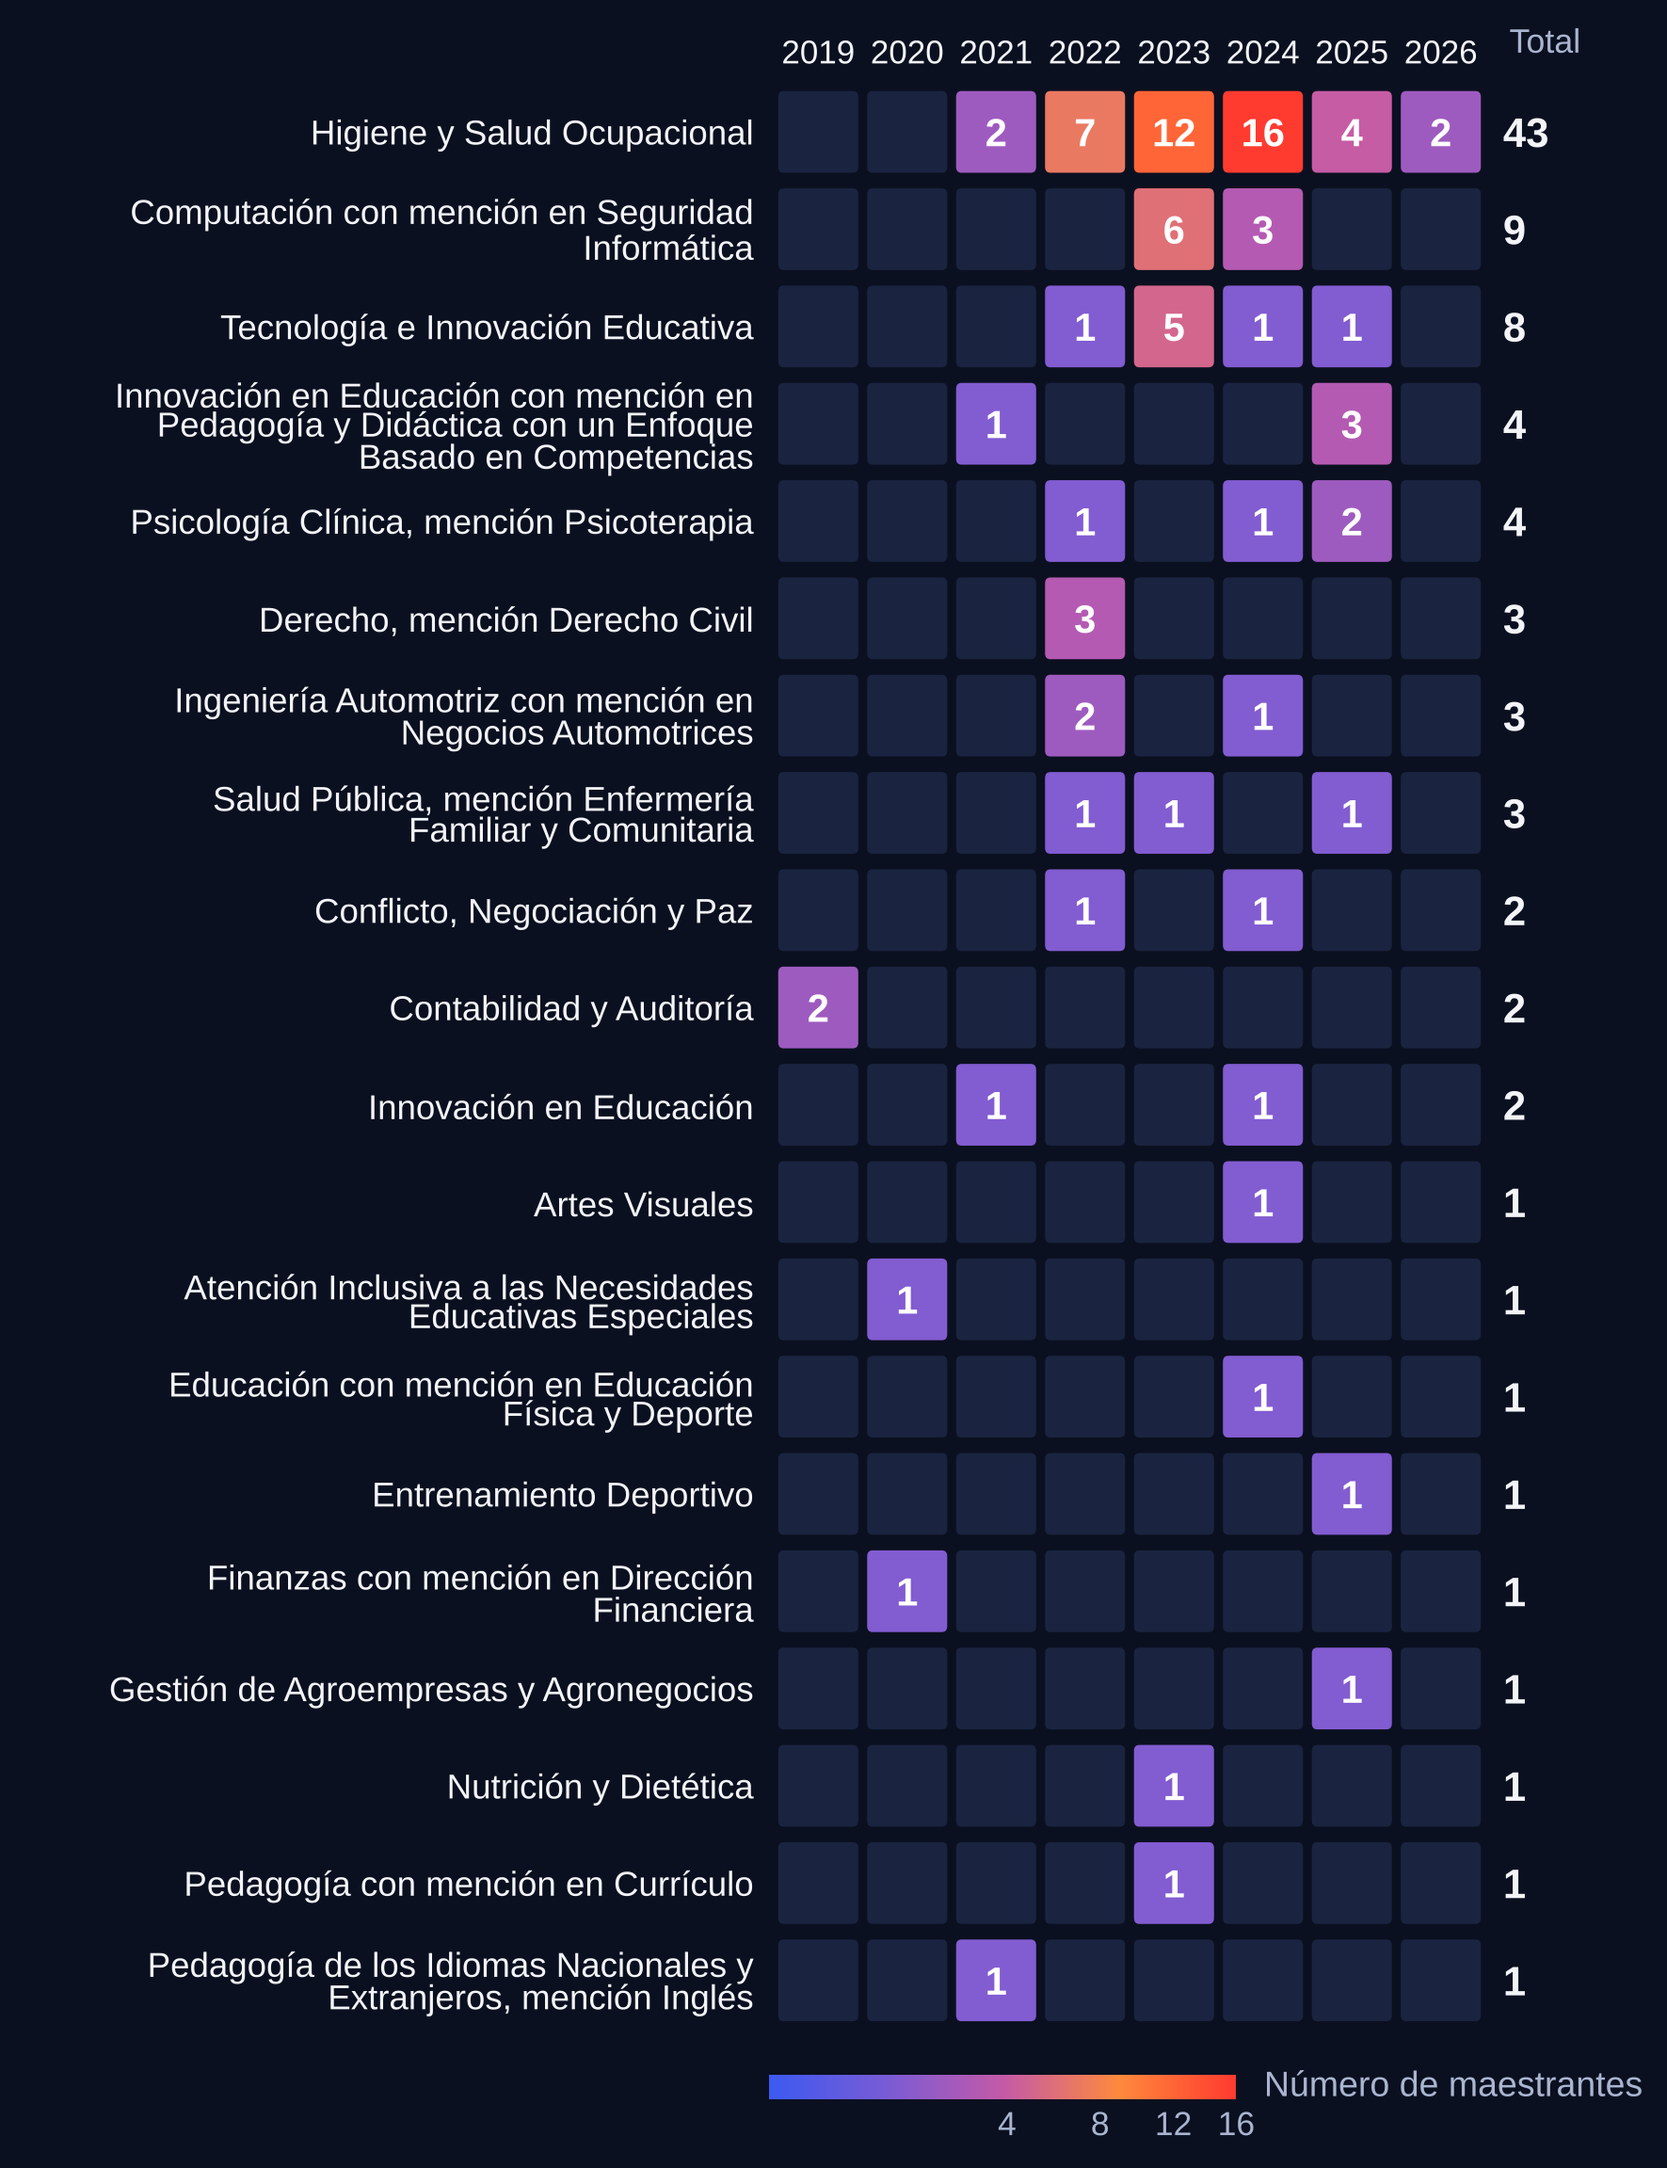
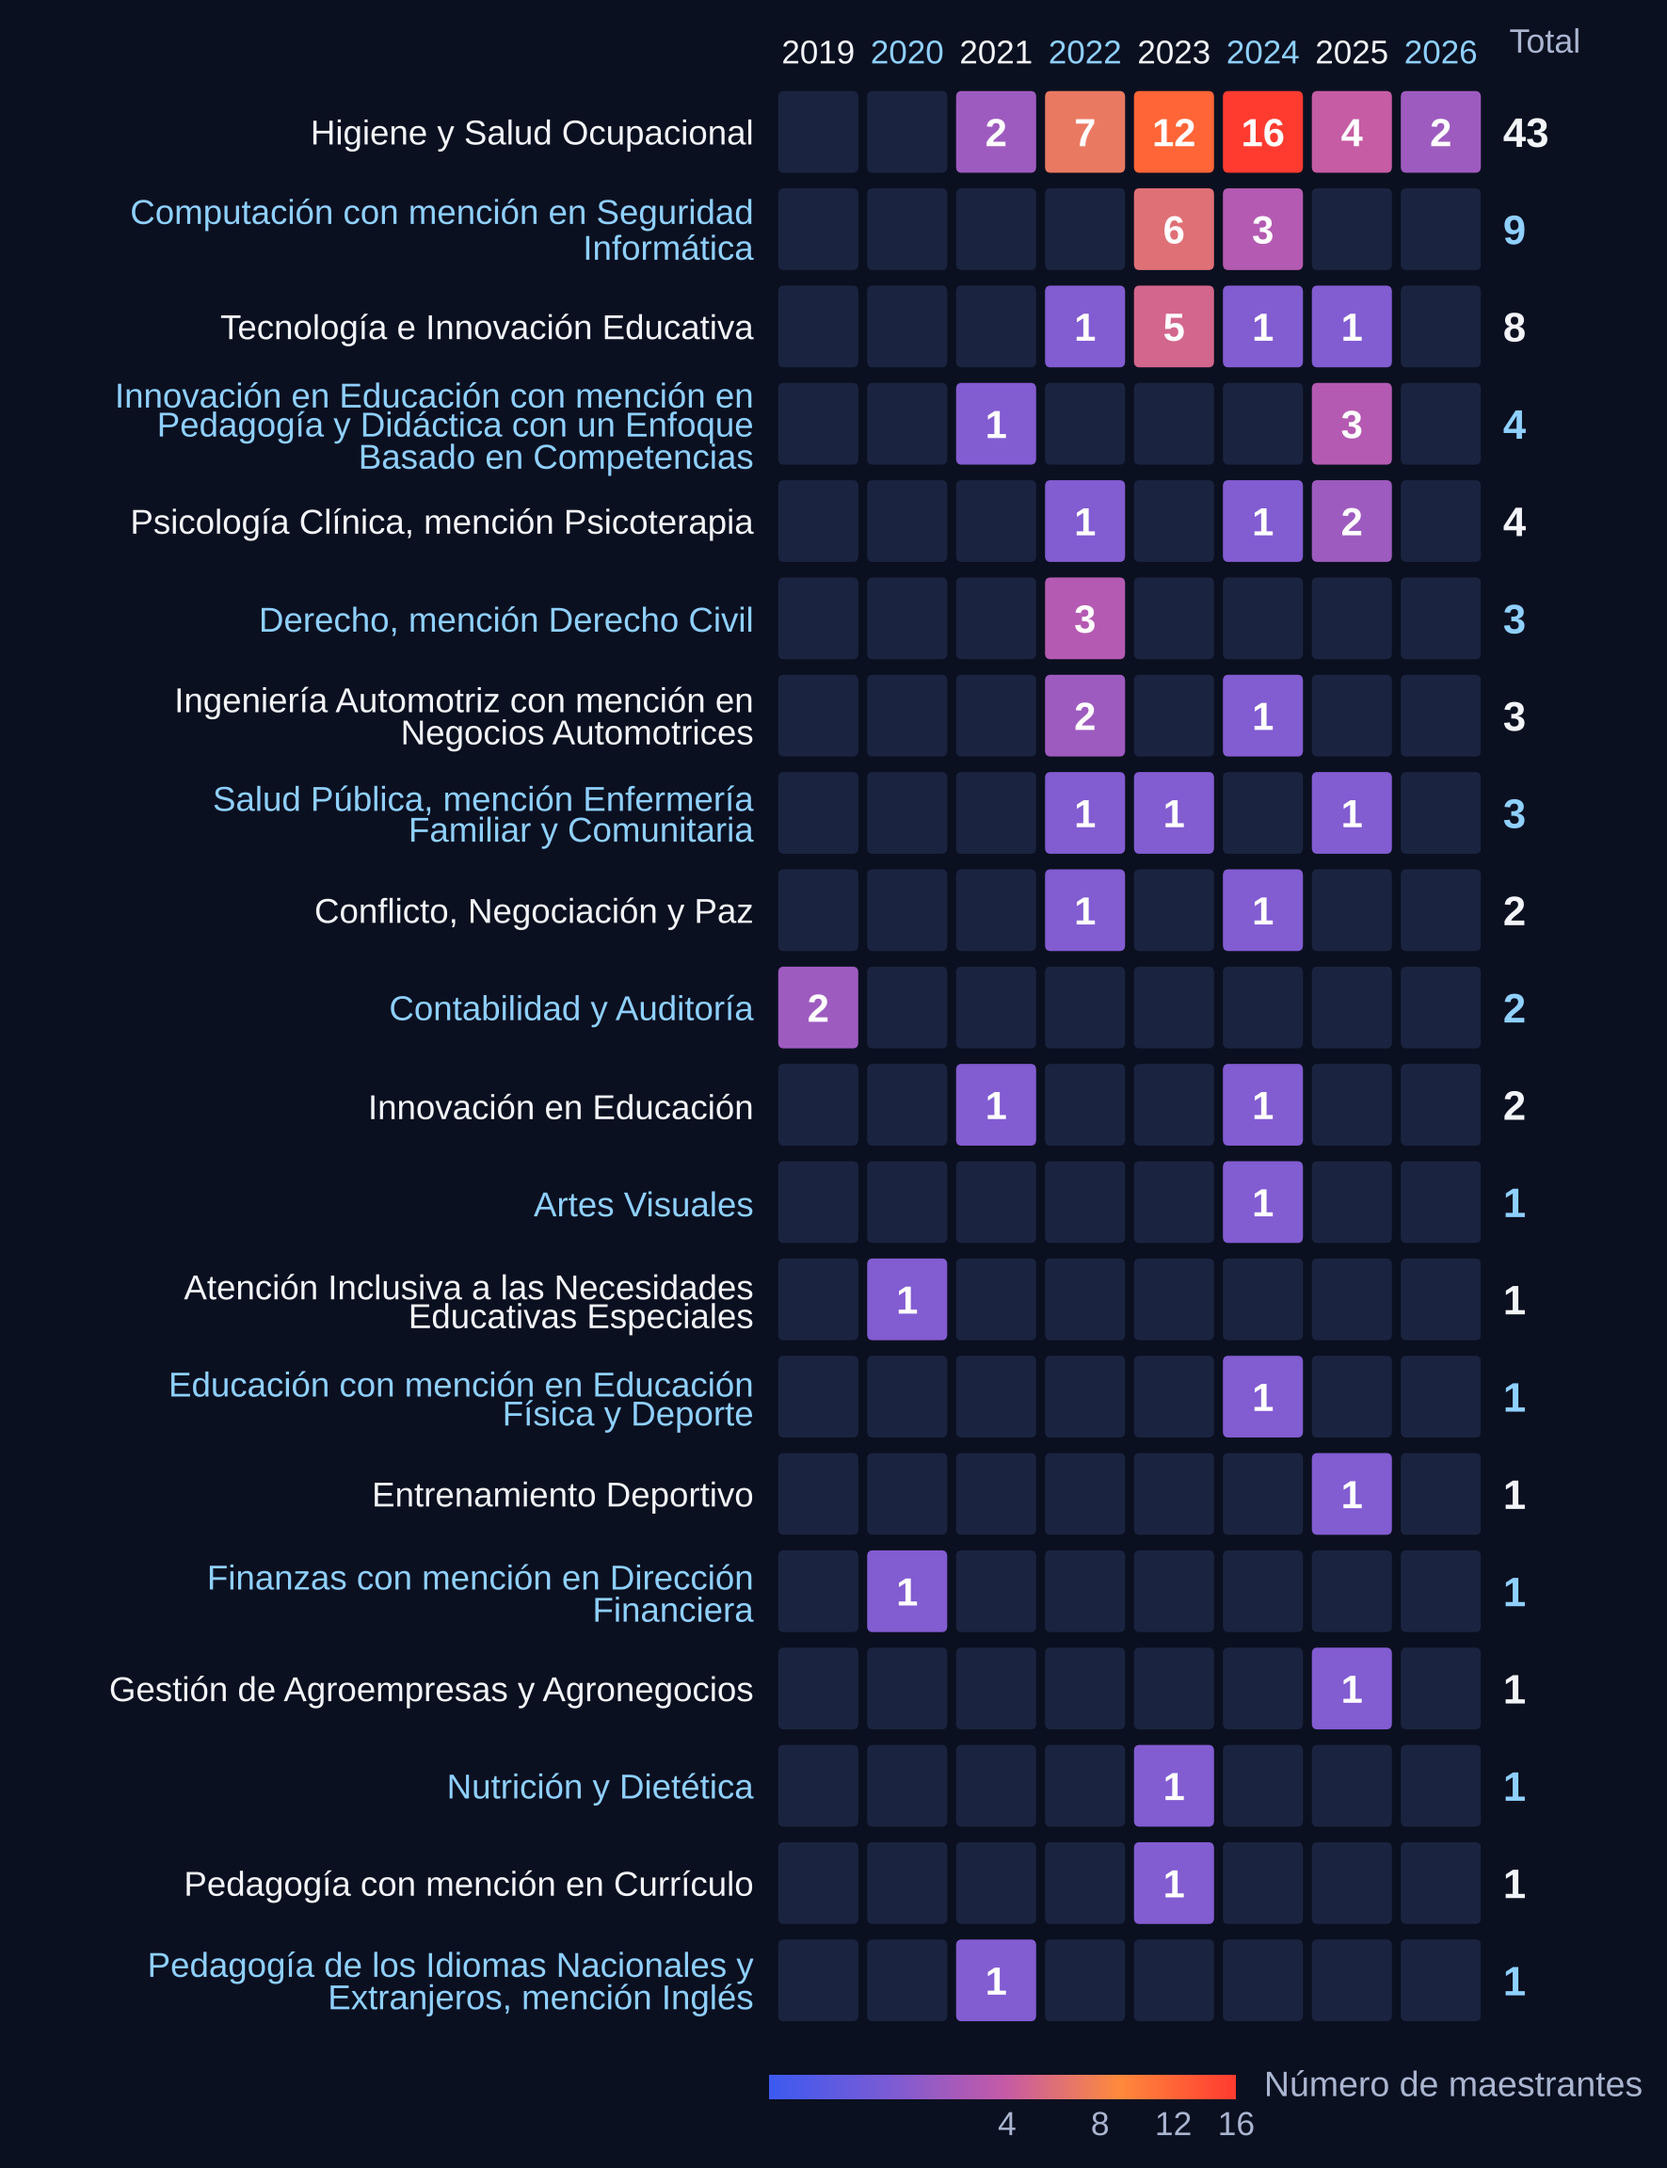
Mapa de calor: nombres, totales y anios alternan entre blanco y celeste
Facilita seguir cada fila y cada columna con la vista. El cambio esta en
graficos_base.py (mapa_calor) y se refleja en resultados/07_programa_por_anio.png.

Claude-Session: https://claude.ai/code/session_01WjPbRQ9X7xbYA5kuQJDoXy

diff --git a/graficos_base.py b/graficos_base.py
@@ -42,6 +42,7 @@ from matplotlib.patches import Patch, FancyBboxPatch
 # ------------------------------------------------------------------------------------------------ estilo
 # Para cambiar la apariencia de TODOS los gráficos se cambian solo estas líneas.
 FONDO, PANEL, REJA, TXT, SUB = "#0b1020", "#121a30", "#2a3759", "#f2f4f8", "#aab5d0"
+TXT2 = "#8fd0ff"                   # celeste: segundo color de texto, para alternar filas y columnas en el mapa de calor
 RAMPA = LinearSegmentedColormap.from_list("base", ["#3d5af1", "#7a5cd6", "#c45aa8", "#ff8a3d", "#ff3b30"])   # degradado principal
 RAMPA_A = LinearSegmentedColormap.from_list("a", ["#c45aa8", "#ff8a3d", "#ffb347"])                          # serie izquierda de la pirámide
 RAMPA_B = LinearSegmentedColormap.from_list("b", ["#7a5cd6", "#3d5af1", "#39a0f2"])                          # serie derecha de la pirámide
@@ -342,7 +343,8 @@ def cajas(grupos, ruta, eje="Valor", unidad="", tope=None, mediana_general=True,
 
 def mapa_calor(filas, columnas, matriz, ruta, eje="Cantidad", total=True, alto=None, titulo=None, subtitulo=None, fuente=None):
     """Cruce de dos variables. filas y columnas son las etiquetas; matriz[i][j] es el valor de la fila i en la columna j.
-    El color y el número de cada celda son el valor; las celdas en cero quedan sin número. total=True añade la suma de cada fila."""
+    El color y el número de cada celda son el valor; las celdas en cero quedan sin número. total=True añade la suma de cada fila.
+    Los nombres de las filas, sus totales y los encabezados de las columnas alternan entre blanco y celeste."""
     et = [_env(f, 40) for f in filas]; nf, nc = len(filas), len(columnas)
     vmax = max(max(r) for r in matriz); norma = PowerNorm(0.55, vmin=0, vmax=vmax)       # escala no lineal: los valores bajos también se distinguen
     tono = lambda v: 0.08 + 0.92 * float(norma(v))
@@ -357,10 +359,12 @@ def mapa_calor(filas, columnas, matriz, ruta, eje="Cantidad", total=True, alto=N
             ax.add_patch(FancyBboxPatch((j - 0.45, i - 0.42), 0.90, 0.84, boxstyle="round,pad=0,rounding_size=0.06",
                                         facecolor=RAMPA(tono(v)) if v else "#1a2440", edgecolor="none", zorder=3))
             if v: ax.text(j, i, num(v), ha="center", va="center_baseline", fontsize=10, fontweight="bold", color="white", zorder=4)
-        if total: ax.text(nc - 0.30, i, num(sum(matriz[i])), ha="left", va="center_baseline", fontsize=10.5, fontweight="bold", color=TXT, clip_on=False)
+        if total: ax.text(nc - 0.30, i, num(sum(matriz[i])), ha="left", va="center_baseline", fontsize=10.5, fontweight="bold", color=TXT2 if i % 2 else TXT, clip_on=False)
     ax.set_yticks(range(nf)); ax.set_yticklabels(et, color=TXT, fontsize=8.8, linespacing=1.0)
     ax.set_xticks(range(nc)); ax.set_xticklabels([_env(c, 12) for c in columnas], color=TXT, fontsize=8.4, linespacing=1.0)
     ax.xaxis.tick_top(); ax.tick_params(length=0, pad=4)
+    for k, t in enumerate(ax.get_yticklabels()): t.set_color(TXT2 if k % 2 else TXT)          # filas y columnas alternan entre blanco y celeste,
+    for k, t in enumerate(ax.get_xticklabels()): t.set_color(TXT2 if k % 2 else TXT)          # para seguir cada una con la vista
     ax.set_xlim(-0.55, nc - 0.45); ax.set_ylim(nf - 0.5, -0.5)
     if total: ax.annotate("Total", (1, 1), xycoords="axes fraction", xytext=(5, 6), textcoords="offset points", ha="left", va="bottom", fontsize=8.6, color=SUB, annotation_clip=False)
     cax = fig.add_axes([izq / ANCHO, (0.62 + g["ex_i"]) / H, 4.2 / ANCHO, 0.22 / H])                    # escala de color
